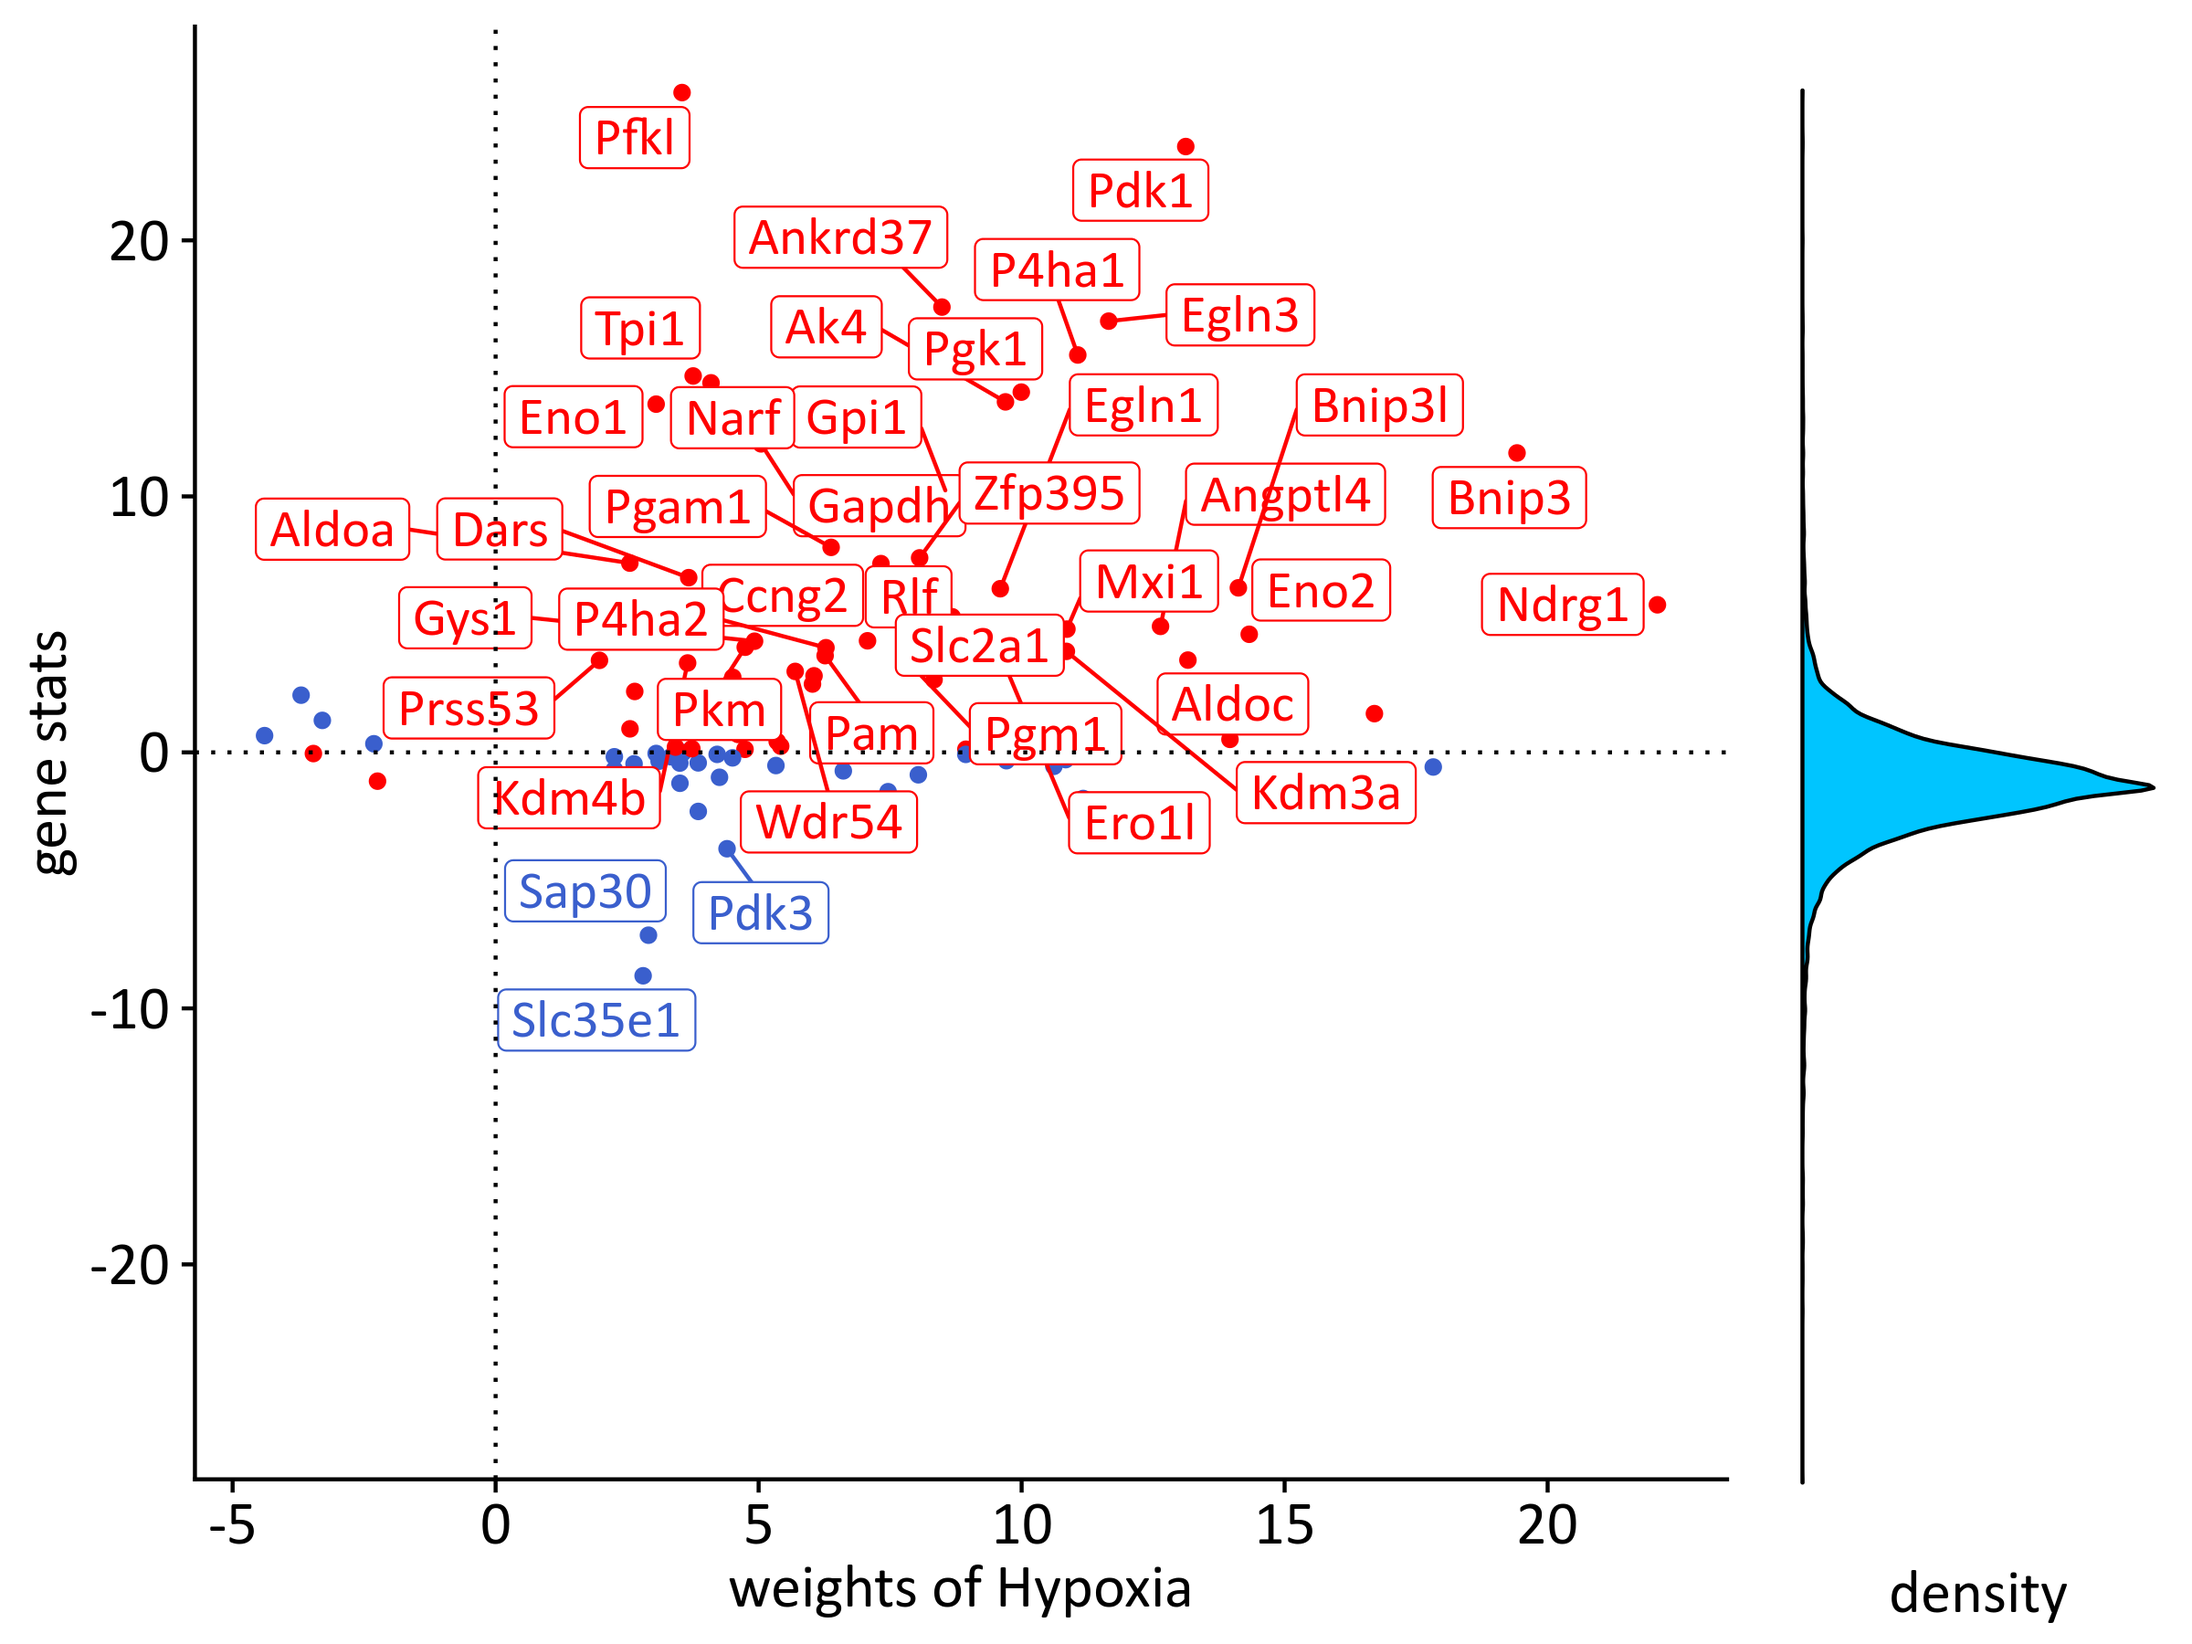
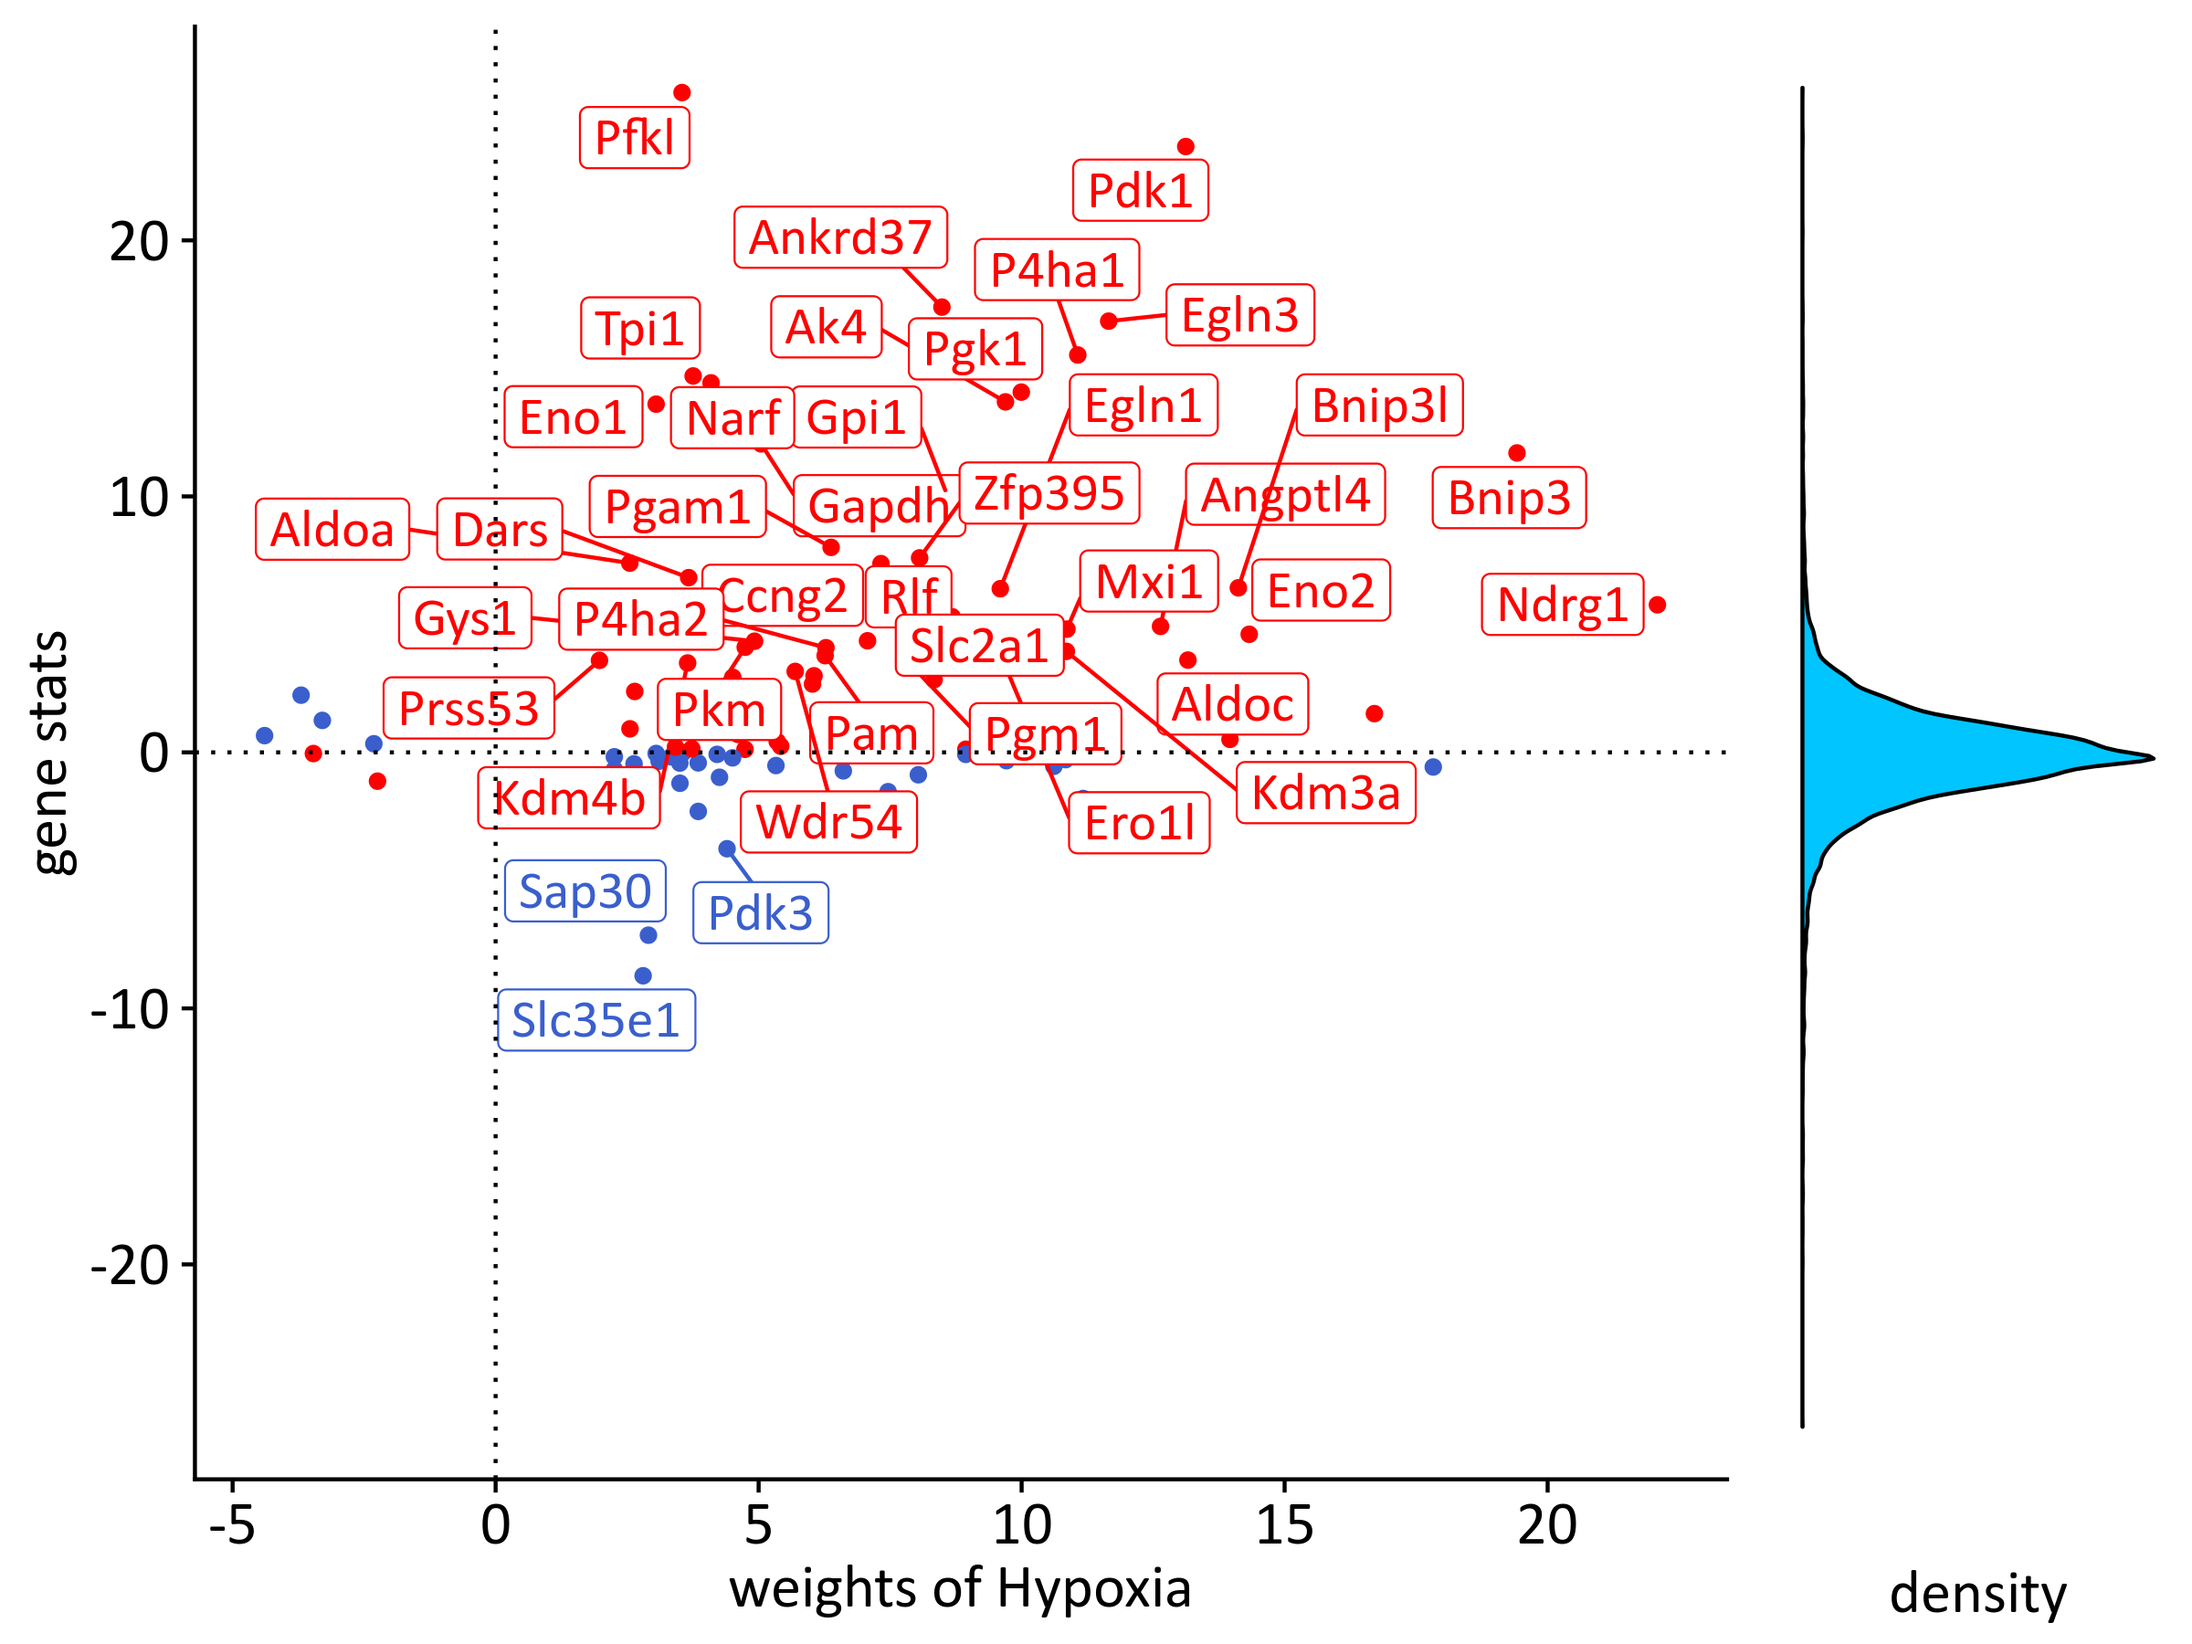
Fix axis density plot

Changed region(s): [[0.8125, 0.3733, 1.0, 0.56]]

diff --git a/Analysis_invitro_bulk/02_pathway.md b/Analysis_invitro_bulk/02_pathway.md
@@ -119,68 +119,7 @@ activation for publication.
 
 ``` r
 source("../src/progenyScores.R")
-```
-
-    ## 
-    ## ********************************************************
-
-    ## Note: As of version 1.0.0, cowplot does not change the
-
-    ##   default ggplot2 theme anymore. To recover the previous
-
-    ##   behavior, execute:
-    ##   theme_set(theme_cowplot())
-
-    ## ********************************************************
-
-    ## Loading required package: RSQLite
-
-    ## Loading required package: RCurl
-
-    ## Loading required package: bitops
-
-    ## Loading required package: BiocGenerics
-
-    ## 
-    ## Attaching package: 'BiocGenerics'
-
-    ## The following objects are masked from 'package:parallel':
-    ## 
-    ##     clusterApply, clusterApplyLB, clusterCall, clusterEvalQ,
-    ##     clusterExport, clusterMap, parApply, parCapply, parLapply,
-    ##     parLapplyLB, parRapply, parSapply, parSapplyLB
-
-    ## The following object is masked from 'package:gridExtra':
-    ## 
-    ##     combine
-
-    ## The following object is masked from 'package:limma':
-    ## 
-    ##     plotMA
-
-    ## The following objects are masked from 'package:stats':
-    ## 
-    ##     IQR, mad, sd, var, xtabs
-
-    ## The following objects are masked from 'package:base':
-    ## 
-    ##     anyDuplicated, append, as.data.frame, basename, cbind,
-    ##     colnames, dirname, do.call, duplicated, eval, evalq, Filter,
-    ##     Find, get, grep, grepl, intersect, is.unsorted, lapply, Map,
-    ##     mapply, match, mget, order, paste, pmax, pmax.int, pmin,
-    ##     pmin.int, Position, rank, rbind, Reduce, rownames, sapply,
-    ##     setdiff, sort, table, tapply, union, unique, unsplit, which,
-    ##     which.max, which.min
-
-``` r
 source("../src/graphics.R")
-```
-
-    ## Loading required package: extrafont
-
-    ## Registering fonts with R
-
-``` r
 progeny_scatter.out <- progenyScatter(df, progeny.mat, fontfamily=fontTXT)
 ```
 
